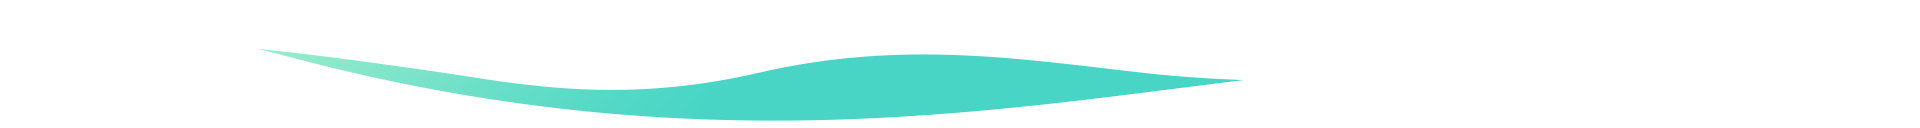
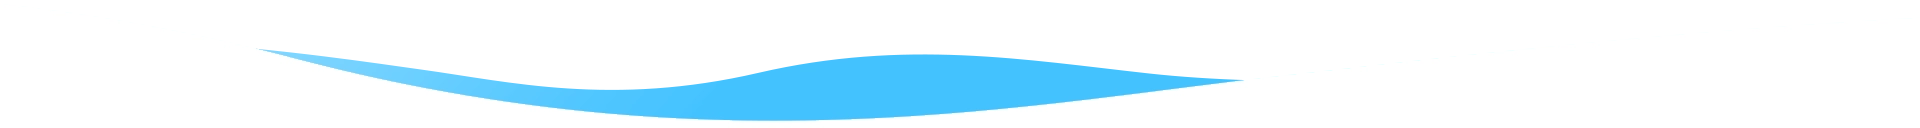
home: Touch up slides and wave, setup App.vue for development of further sections, begin developing Statements with cards for homey feel

Changed region(s): [[0.125, 0.375, 0.6562, 0.9688]]

diff --git a/src/components/Carousel/Carousel.vue b/src/components/Carousel/Carousel.vue
@@ -13,7 +13,7 @@
       :delimiter-icon="$vuetify.breakpoint.smOnly ? 'mdi-circle-medium' : 'mdi-circle'"
       :show-arrows="false"
       :continuous="true"
-      :cycle="true"
+      :cycle="false"
       :interval="7500"
       v-model="carousel_slide"
     >
@@ -36,9 +36,9 @@
           :carousel_slide="carousel_slide"
         >
           <template v-slot:ctoa>
-            <ResidentialCleaningCTOA v-if="index === 0" :callback="fill_estimate_form"/>
-            <CommercialSpaceMaintenanceCTOA v-if="index === 1" :callback="fill_meeting_form"/>
-            <InfrastructureSanitizationCTOA v-if="index === 2" :callback="talk_to_rep"/>
+            <CTOA v-if="index === 0" :callback="fill_estimate_form" text="Free Estimate"/>
+            <CTOA v-if="index === 1" :callback="fill_meeting_form" text="Schedule A Meeting"/>
+            <CTOA v-if="index === 2" :callback="talk_to_rep" text="Talk To A Rep"/>
           </template>
         </CarouselItem>
       </v-carousel-item>
@@ -55,21 +55,17 @@
 
 <script>
 import CarouselItem from './CarouselItem'
-import ResidentialCleaningCTOA from './CTOAs/ResidentialCleaning/ResidentialCleaning'
-import CommercialSpaceMaintenanceCTOA from './CTOAs/CommercialSpaceMaintenance/CommercialSpaceMaintenance'
-import InfrastructureSanitizationCTOA from './CTOAs/InfrastructureSanitization/InfrastructureSanitization'
+import CTOA from './CTOA'
 import carousel_items from './items'
 
 export default {
   name: 'Carousel',
   components: {
     CarouselItem,
-    ResidentialCleaningCTOA,
-    CommercialSpaceMaintenanceCTOA,
-    InfrastructureSanitizationCTOA
+    CTOA
   },
   data: () => ({
-    wave_1: require('../../assets/waves/wave_11.webp'),
+    wave_1: require('../../assets/waves/wave_1.webp'),
     carousel_slide: 0,
     carousel_items,
   }),

diff --git a/src/components/Statements/Card.vue b/src/components/Statements/Card.vue
@@ -1,0 +1,75 @@
+<template>
+  <v-card
+    shaped
+    class="flex-column align-center justify-center"
+    :style="cardStyle"
+  >
+    <div class="d-flex align-center" :style="cardHeaderStyle">
+      <v-icon
+        :size="$vuetify.breakpoint.xsOnly ? '24px' : $vuetify.breakpoint.smOnly ? '32px' : '56px'"
+        color="secondary"
+        :style="{display: $vuetify.breakpoint.xsOnly ? 'block' : undefined}"
+      >
+        {{card.icon}}
+      </v-icon>
+      <v-card-title :style="cardTitleStyle">testtest test testtest</v-card-title>
+    </div>
+
+    <v-card-subtitle :style="cardTextStyle">{{card.text}}</v-card-subtitle>
+    <v-list>
+      <v-list-item
+        
+      >test</v-list-item>
+    </v-list>
+  </v-card>
+</template>
+
+<script>
+export default {
+  name: 'StatementCard',
+  components: {},
+  props: ['card'],
+  computed: {
+    cardStyle () {
+      return this.$vuetify.breakpoint.xsOnly ? {
+        padding: '16px',
+        margin: '16px 24px 8px 24px',
+        width: '100%',
+        maxWidth: '400px'
+      } : {
+        padding: '24px',
+        margin: '24px 32px 16px 32px',
+        width: '50%',
+        maxWidth: '500px'
+      }
+    },
+    cardHeaderStyle () {
+      return this.$vuetify.breakpoint.xsOnly ? {
+        justifyContent: 'flex-start'
+      } : {
+        justifyContent: 'center'
+      }
+    },
+    cardTextStyle () {
+      return this.$vuetify.breakpoint.xsOnly ? {
+        padding: '8px',
+      } : {
+        
+      }
+    },
+    cardTitleStyle () {
+      return this.$vuetify.breakpoint.xsOnly ? {
+        margin: '4px 12px',
+        padding: '0'
+      } : {
+        
+      }
+    }
+  }
+
+}
+</script>
+
+<style>
+
+</style>

diff --git a/src/components/Carousel/CTOA.vue b/src/components/Carousel/CTOA.vue
@@ -1,16 +1,15 @@
 <template>
   <div class="ctoa_container d-flex align-center justify-center mt-4">
-    <v-btn class="residential_cleaning_ctoa"
+    <v-btn class="d-flex align-center justify-center"
       rounded
       color="accent"
       @click="() => callback()"
-      x-large
-      :style="{
-        fontSize: $vuetify.breakpoint.mdAndUp ? '26px' : '22px',
-        zIndex: '22'
-      }"
+      :x-large="!$vuetify.breakpoint.xsOnly"
+      :small="$vuetify.breakpoint.xsOnly"
+      :style="{fontSize: $vuetify.breakpoint.mdAndUp ? '26px' : 
+                         $vuetify.breakpoint.xsOnly  ? '18px' : '23px'}"
     >
-      <span> Free Estimate </span>
+      <span> {{text}} </span>
     </v-btn>
   </div>
 
@@ -20,7 +19,7 @@
 export default {
   name: 'ResidentialCleaningCTOA',
   components: {},
-  props: ['callback'],
+  props: ['callback', 'text'],
   data: () => ({}),
   computed: {},
   watch: {}
@@ -29,9 +28,7 @@ export default {
 
 <style>
 .ctoa_container {
-  width: 100%
-}
-.residential_cleaning_ctoa {
+  width: 100%;
   font-family: 'Babylove';
 }
 </style>

diff --git a/src/components/Carousel/CarouselItem.vue b/src/components/Carousel/CarouselItem.vue
@@ -12,7 +12,7 @@
           <h3
             class="item_title"
             v-if="show"
-            :style="{fontSize: $vuetify.breakpoint.xsOnly ? '26px' : '38px'}"
+            :style="{fontSize: $vuetify.breakpoint.xsOnly ? '20px' : '38px'}"
           >
             {{carousel_item.title}}
           </h3>
@@ -22,7 +22,7 @@
           <h3
             class="phrase mx-8"
             v-if="show"
-            :style="{fontSize: $vuetify.breakpoint.xsOnly ? '32px' : '53px'}"
+            :style="{fontSize: $vuetify.breakpoint.xsOnly ? '24px' : '53px'}"
           >
             {{carousel_item.phrase}}
           </h3>
@@ -57,6 +57,7 @@ export default {
 .carousel_item {
   height: 100%;
   background-size: cover !important;
+  user-select: none
 }
 .item-fade-enter-to {
   transition: opacity 1s;

diff --git a/src/components/Statements/Statements.vue b/src/components/Statements/Statements.vue
@@ -1,0 +1,29 @@
+<template>
+  <div class="statements_container d-flex align-center justify-center flex-wrap"
+    :style="{width: '100%',}"
+  >
+    <Card v-for="(card, index) in cards" :key="index" :card="card"/>
+  </div>
+</template>
+
+<script>
+import Card from './Card'
+import cards from './cards'
+
+export default {
+  name: 'Statements',
+  components: {
+    Card
+  },
+  data: () => ({
+    cards
+  }),
+  computed: {},
+  methods: {},
+  watch: {}
+}
+</script>
+
+<style>
+.statements_container {}
+</style>

diff --git a/src/App.vue b/src/App.vue
@@ -3,7 +3,8 @@
     <AppBar />
 
     <v-content>
-      <Carousel />
+      <Carousel v-if="false"/>
+      <Statements v-if="true"/>
     </v-content>
   </v-app>
 </template>
@@ -11,13 +12,15 @@
 <script>
 import AppBar from './components/AppBar/AppBar'
 import Carousel from './components/Carousel/Carousel'
+import Statements from './components/Statements/Statements'
 
 export default {
   name: 'App',
 
   components: {
     AppBar,
-    Carousel
+    Carousel,
+    Statements
   },
 
   watch: {

diff --git a/src/components/Statements/cards.js b/src/components/Statements/cards.js
@@ -1,0 +1,10 @@
+module.exports = [
+  {
+    icon: 'mdi-checkbox-marked-circle-outline',
+    text: 'Expect great service at all levels of the experience'
+  },
+  {
+    icon: 'mdi-cards-heart',
+    text: 'Trust that our team will take care of your property'
+  },
+]

diff --git a/src/plugins/vuetify.js b/src/plugins/vuetify.js
@@ -12,7 +12,7 @@ export default new Vuetify({
       light: {
         primary: '#009ae4',
         secondary: '#2196f3',
-        accent: '3acbb1',
+        accent: '#3acbb1',
         error: '#f44336',
         info: '#cddc39',
         success: '#8bc34a',
